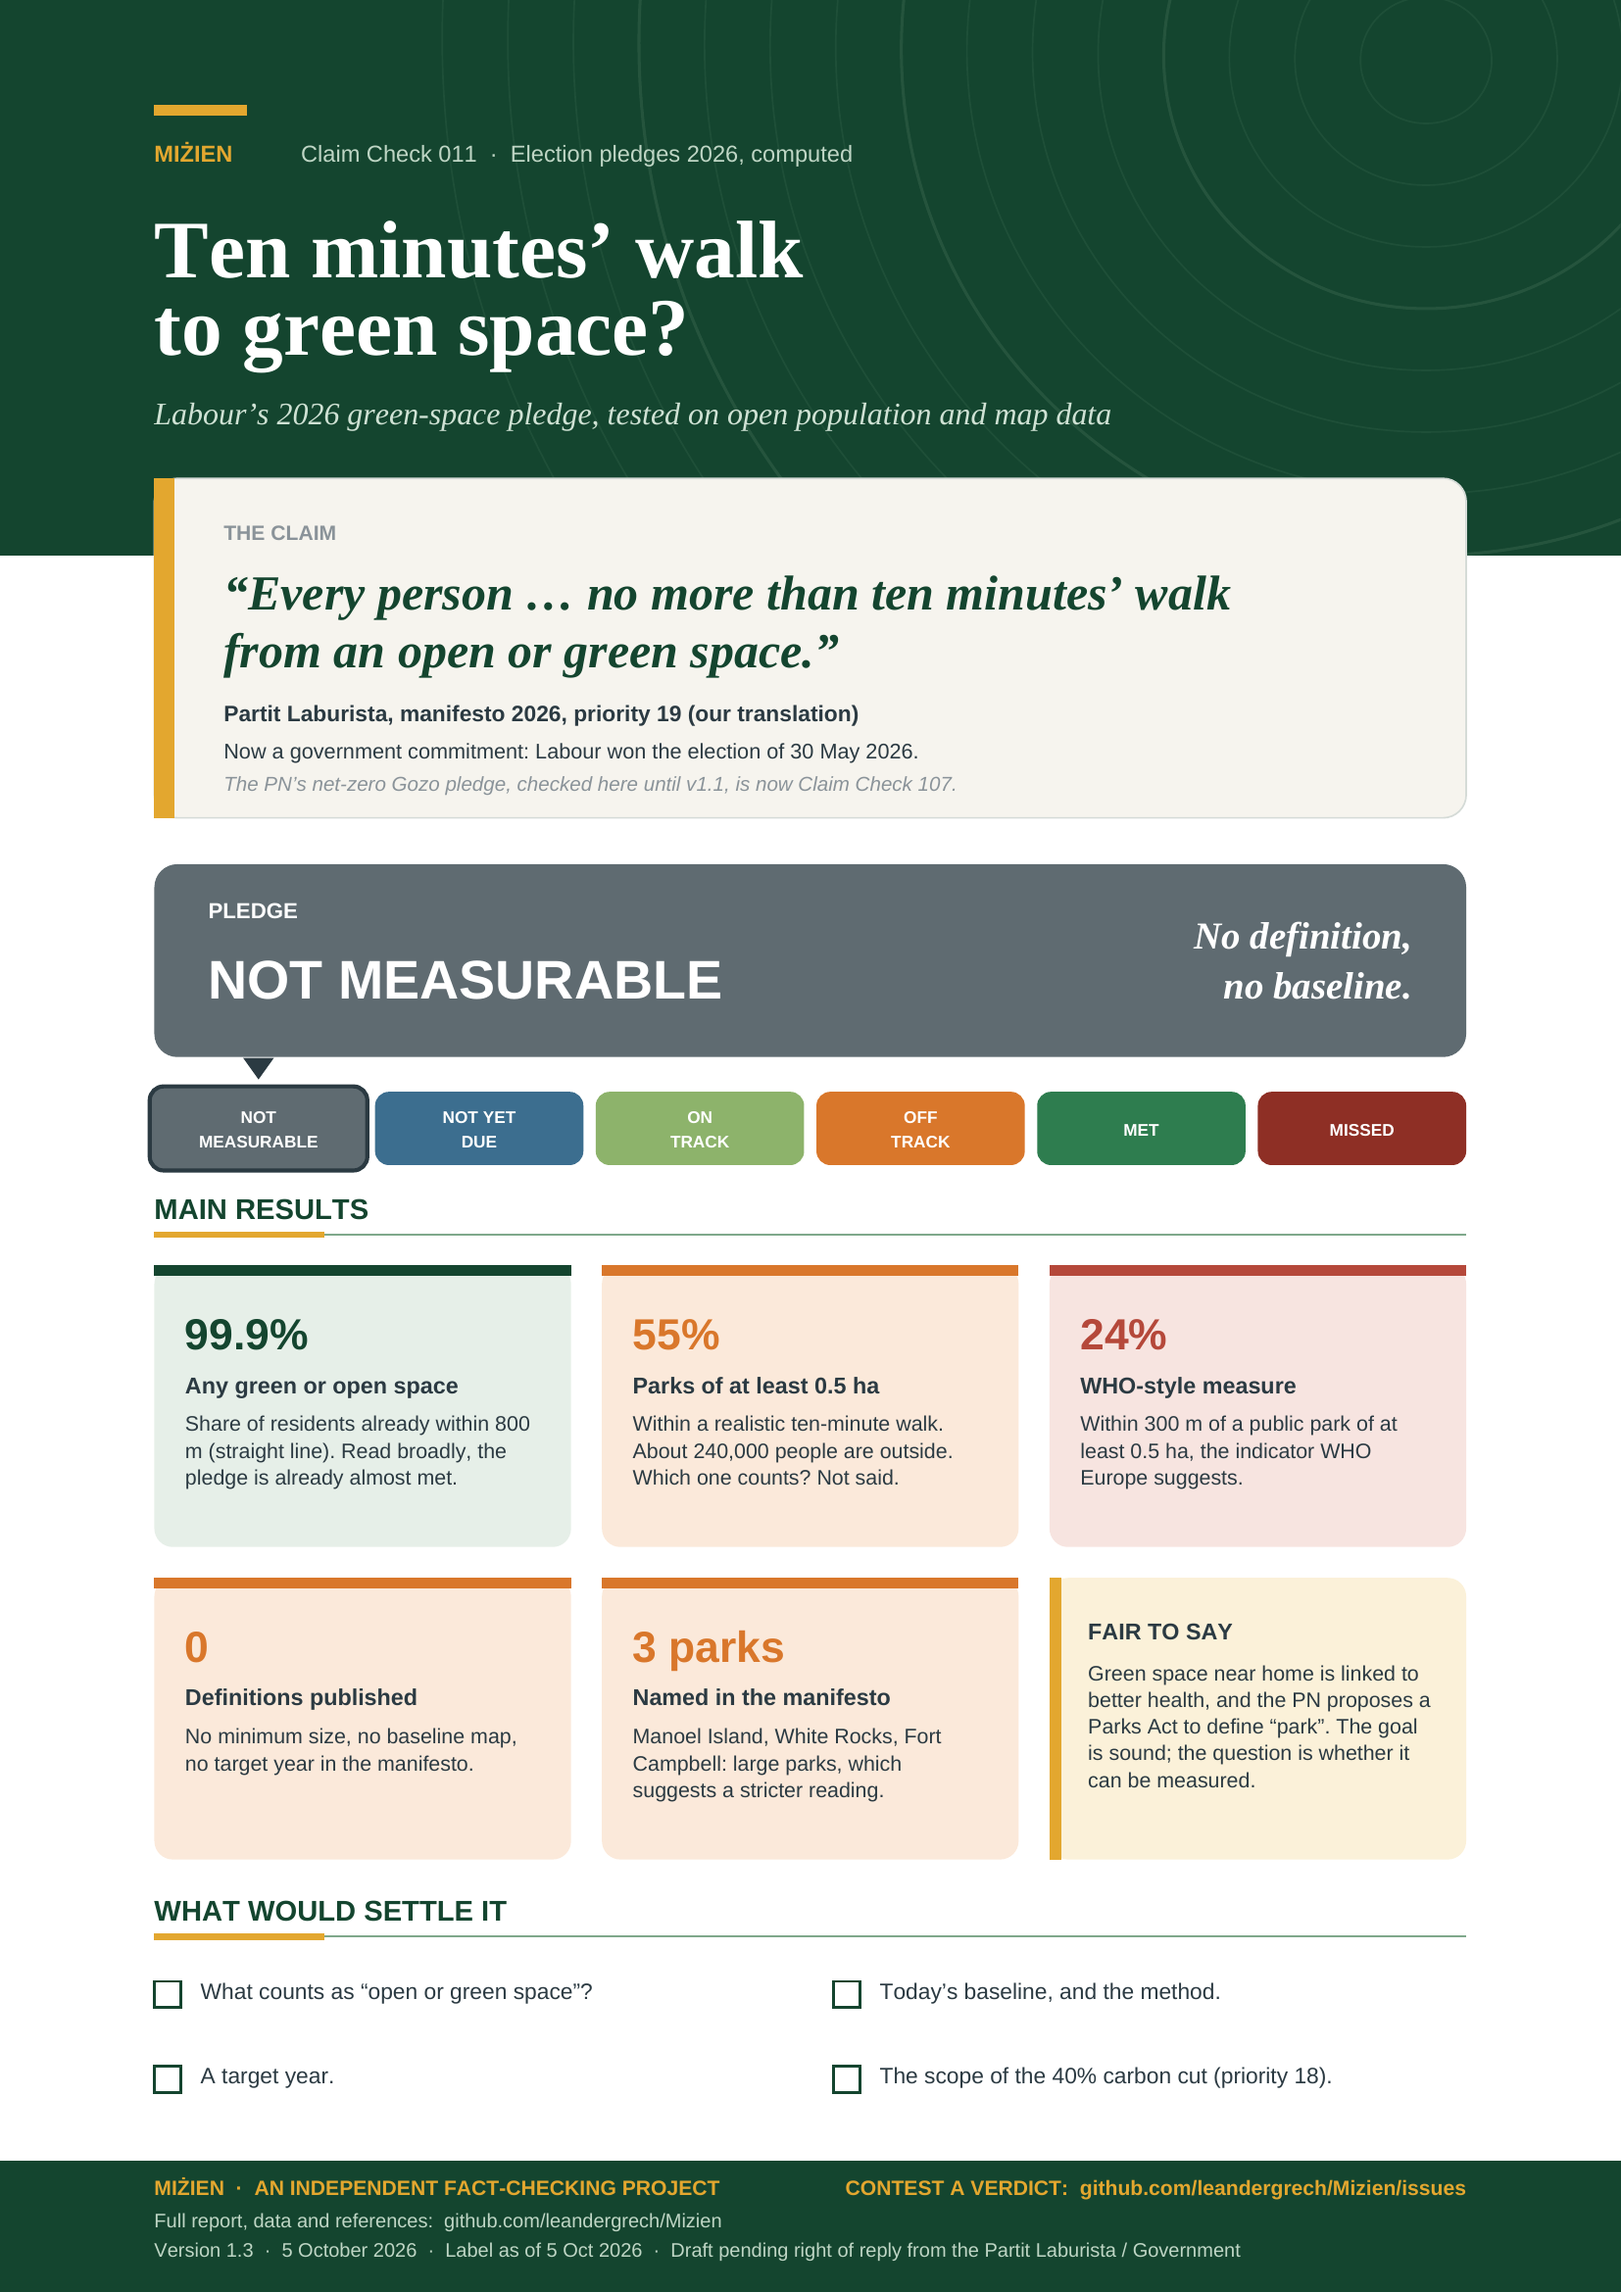
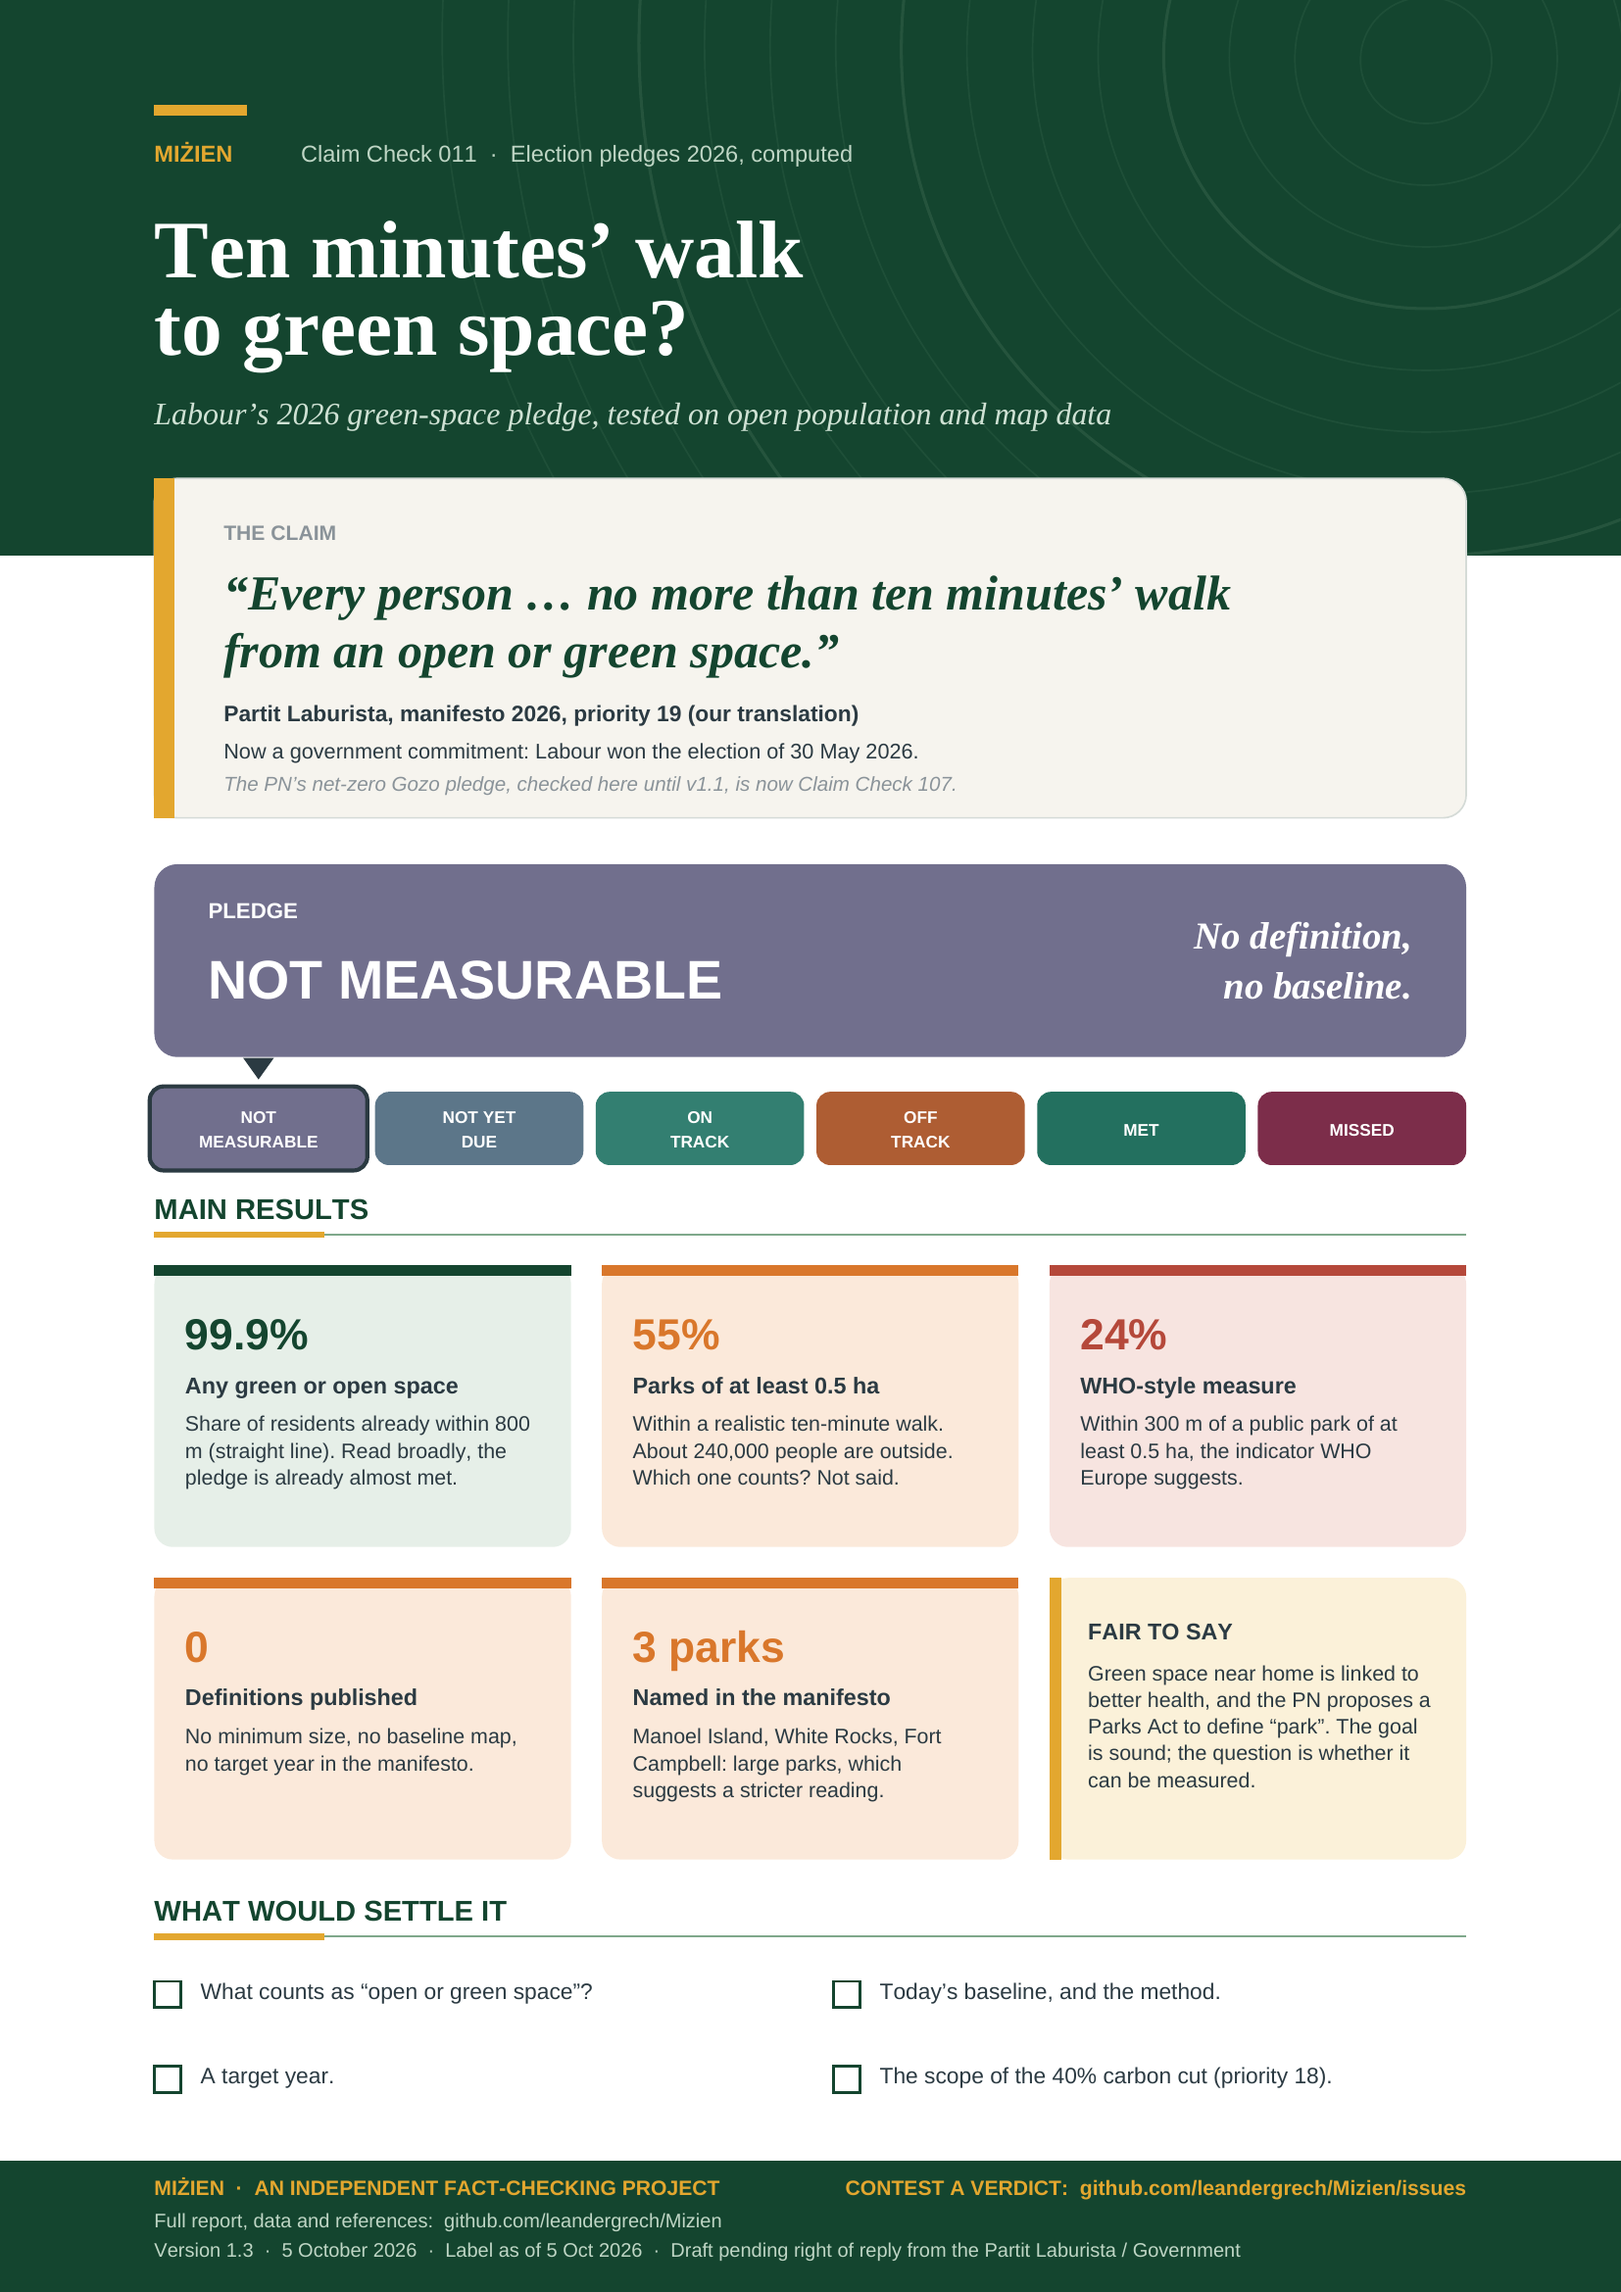
Pledge labels use the site's palette (4.5:1 with white text); CC-011, CC-107 rebuilt
Report HTML: pledge chips in Appendix A carry inline colours.

Claude-Session: https://claude.ai/code/session_01JZKsRjsZsik672tqbEmfMu

Changed region(s): [[0.0925, 0.3745, 0.925, 0.5306]]

diff --git a/tools/report_html.py b/tools/report_html.py
@@ -48,6 +48,9 @@ PALETTE = {"#14452f": "green", "#7fa88b": "sage", "#e6efe8": "pale", "#e3a72f": 
            "#ffffff": "white", "#5f6b71": "grey"}   # #5f6b71: the PDF's darker grey (pledge "Not measurable", default chip)
 
 
+PLEDGE_HEX = {"#" + c.hexval()[2:].upper() for c in mizien_report.PLEDGE_COLS}
+
+
 def kc(hexcol):
     return PALETTE.get((hexcol or "").lower(), "other")
 
@@ -144,7 +147,7 @@ def verdict_slug(v):
 def pledge_style(label):
     """Inline colours for a pledge label (the PDF's PLEDGE_COLS), as the --v / --v-ink pair the site styles use."""
     col = "#" + mizien_report.PLEDGE_COLS[mizien_report.PLEDGES.index(label)].hexval()[2:].upper()
-    ink = "#13301f" if label in ("On track", "Off track") else "#ffffff"
+    ink = "#ffffff"
     return f"--v: {col}; --v-ink: {ink}"
 
 
@@ -375,6 +378,8 @@ class Renderer:
         return f'<div class="callout bg-{kc(bg)} bar-{kc(bar)}">{inner}</div>'
 
     def mz_chip(self, text, bg, fg):
+        if (bg or "").upper() in PLEDGE_HEX:   # pledge labels: the site has no chip classes for them
+            return f'<span class="chip" style="background: {bg}; color: #fff">{inline(text)}</span>'
         return f'<span class="chip bg-{kc(bg)}">{inline(text)}</span>'
 
     def mz_grade(self, g):

diff --git a/tools/mizien_report.py b/tools/mizien_report.py
@@ -59,8 +59,8 @@ METER_LABELS = [("SUPPORTED", ""), ("LARGELY", "SUPPORTED"), ("NOT", "SUBSTANTIA
                 ("CONTRADICTED", "")]
 # Pledge labels (methodology/verdict-scale.md, Pledges): a pure pledge check shows one of these instead of a verdict.
 PLEDGES = ["Not measurable", "Not yet due", "On track", "Off track", "Met", "Missed"]
-PLEDGE_COLS = [colors.HexColor("#5F6B71"), BLUE, colors.HexColor("#8DB36B"), ORANGE, GREENC,
-               colors.HexColor("#8E2F25")]
+# The site's pledge palette: every colour passes 4.5:1 with white text and stays apart from the verdict colours.
+PLEDGE_COLS = [colors.HexColor(h) for h in ("#716F8D", "#5C7689", "#337F71", "#AE5D33", "#23705F", "#7C2D4A")]
 PLEDGE_METER_LABELS = [("NOT", "MEASURABLE"), ("NOT YET", "DUE"), ("ON", "TRACK"), ("OFF", "TRACK"), ("MET", ""),
                        ("MISSED", "")]
 
